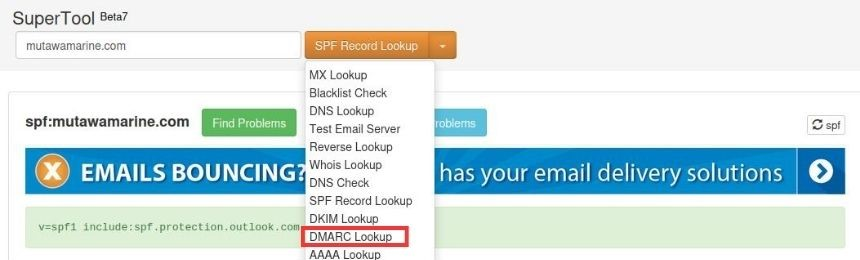
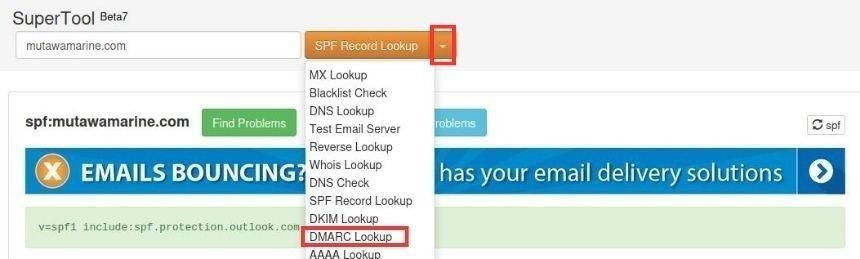
Menambahkan The Greenholt Phish

diff --git a/The Greenholt Phish/README.md b/The Greenholt Phish/README.md
@@ -1,6 +1,9 @@
 # The Greenholt Phish
 - TryHackMe Challenge: https://tryhackme.com/room/phishingemails5fgjlzxc
 
+## Studi Kasus
+Seorang Sales Executive di Greenholt PLC menerima email yang tidak terduga dari seorang customer. Dia mengklaim bahwa customer tidak pernah menggunakan salam umum seperti "Selamat siang" dan tidak mengharapkan sejumlah uang ditransfer ke rekeningnya. Email tersebut juga berisi lampiran yang tidak pernah dia minta. Dia meneruskan email tersebut ke bagian SOC (Security Operations Center) untuk penyelidikan lebih lanjut.
+
 ## Task 1 Challenge
 - Gunakan Split View untuk mengakses machine
 
@@ -89,4 +92,86 @@ Hostwinds LLC
 - **Jawaban:**
 ```sh
 spf1 include:spf.protection.outlook.com -all
+```
+
+- **Pertanyaan:** What is the DMARC record for the Return-Path domain?
+- Domain-based Message Authentication Reporting and Conformance (DMARC) adalah metode otentikasi pesan email
+- Klik tanda panah kemudian pilih **DMARC Lookup**
+
+![alt text](https://github.com/rahardian-dwi-saputra/TryHackMe-WriteUps/blob/main/The%20Greenholt%20Phish/assets/tgh%2013.jpg)
+
+- Kemudian tekan tombol **DMARC Lookup**
+
+![alt text](https://github.com/rahardian-dwi-saputra/TryHackMe-WriteUps/blob/main/The%20Greenholt%20Phish/assets/tgh%2014.jpg)
+
+![alt text](https://github.com/rahardian-dwi-saputra/TryHackMe-WriteUps/blob/main/The%20Greenholt%20Phish/assets/tgh%2015.JPG)
+
+- **v=DMARC1** → Harus menggunakan huruf kapital semua, dan ini bukan opsional.
+- **p=quarantine** → Jika pemeriksaan gagal, maka email akan dikirim ke folder spam (Kebijakan DMARC).
+- **fo** → Menentukan opsi pelaporan kegagalan/forensik.
+- **fo=1** → Buat laporan kegagalan/forensik DMARC jika SPF atau DKIM menghasilkan hasil selain lintasan yang selaras.
+
+- **Jawaban:**
+```sh
+DMARC1; p=quarantine; fo=1
+```
+
+- **Pertanyaan:** What is the name of the attachment?
+- Buka kembali email dari task sebelumnya
+
+![alt text](https://github.com/rahardian-dwi-saputra/TryHackMe-WriteUps/blob/main/The%20Greenholt%20Phish/assets/tgh%2016.jpg)
+
+- **Jawaban:**
+```sh
+SWT_#09674321____PDF__.CAB
+```
+
+- **Pertanyaan:** What is the SHA256 hash of the file attachment?
+- Tekan tombol Save untuk menyimpan attachment file ke local
+
+![alt text](https://github.com/rahardian-dwi-saputra/TryHackMe-WriteUps/blob/main/The%20Greenholt%20Phish/assets/tgh%2017.png)
+
+- Lalu tekan tombol **Save** untuk menyimpan
+
+![alt text](https://github.com/rahardian-dwi-saputra/TryHackMe-WriteUps/blob/main/The%20Greenholt%20Phish/assets/tgh%2018.jpg)
+
+- Buka terminal
+
+![alt text](https://github.com/rahardian-dwi-saputra/TryHackMe-WriteUps/blob/main/The%20Greenholt%20Phish/assets/tgh%2019.jpg)
+
+- Gunakan tool `sha256sum` untuk mengecek kode hash file
+```sh
+sha256sum SWT_#09674321____PDF__.CAB
+```
+
+![alt text](https://github.com/rahardian-dwi-saputra/TryHackMe-WriteUps/blob/main/The%20Greenholt%20Phish/assets/tgh%2020.JPG)
+
+- **Jawaban:**
+```sh
[1 lines of base64/hex data omitted]
+```
+
+- **Pertanyaan:** What is the attachments file size? (Don't forget to add "KB" to your answer, NUM KB)
+- Ukuran file yang dimaksud bukan ukuran file yang tertera di local
+- Copy hash file dari pertanyaan sebelumnya
+- Buka website https://www.virustotal.com/gui/home/search kemudian paste hash file di field pencarian
+
+![alt text](https://github.com/rahardian-dwi-saputra/TryHackMe-WriteUps/blob/main/The%20Greenholt%20Phish/assets/tgh%2021.jpg)
+
+- Tekan enter kemudian pindah ke tab **Details**, pada **Basic Properties** terdapat informasi **File size** yang merupakan ukuran file sebenarnya
+
+![alt text](https://github.com/rahardian-dwi-saputra/TryHackMe-WriteUps/blob/main/The%20Greenholt%20Phish/assets/tgh%2022.JPG)
+
+- **Jawaban:**
+```sh
+400.26 KB
+```
+
+- **Pertanyaan:** What is the actual file extension of the attachment?
+
+![alt text](https://github.com/rahardian-dwi-saputra/TryHackMe-WriteUps/blob/main/The%20Greenholt%20Phish/assets/tgh%2023.jpg)
+
+- **Jawaban:**
+```sh
+rar
 ```
